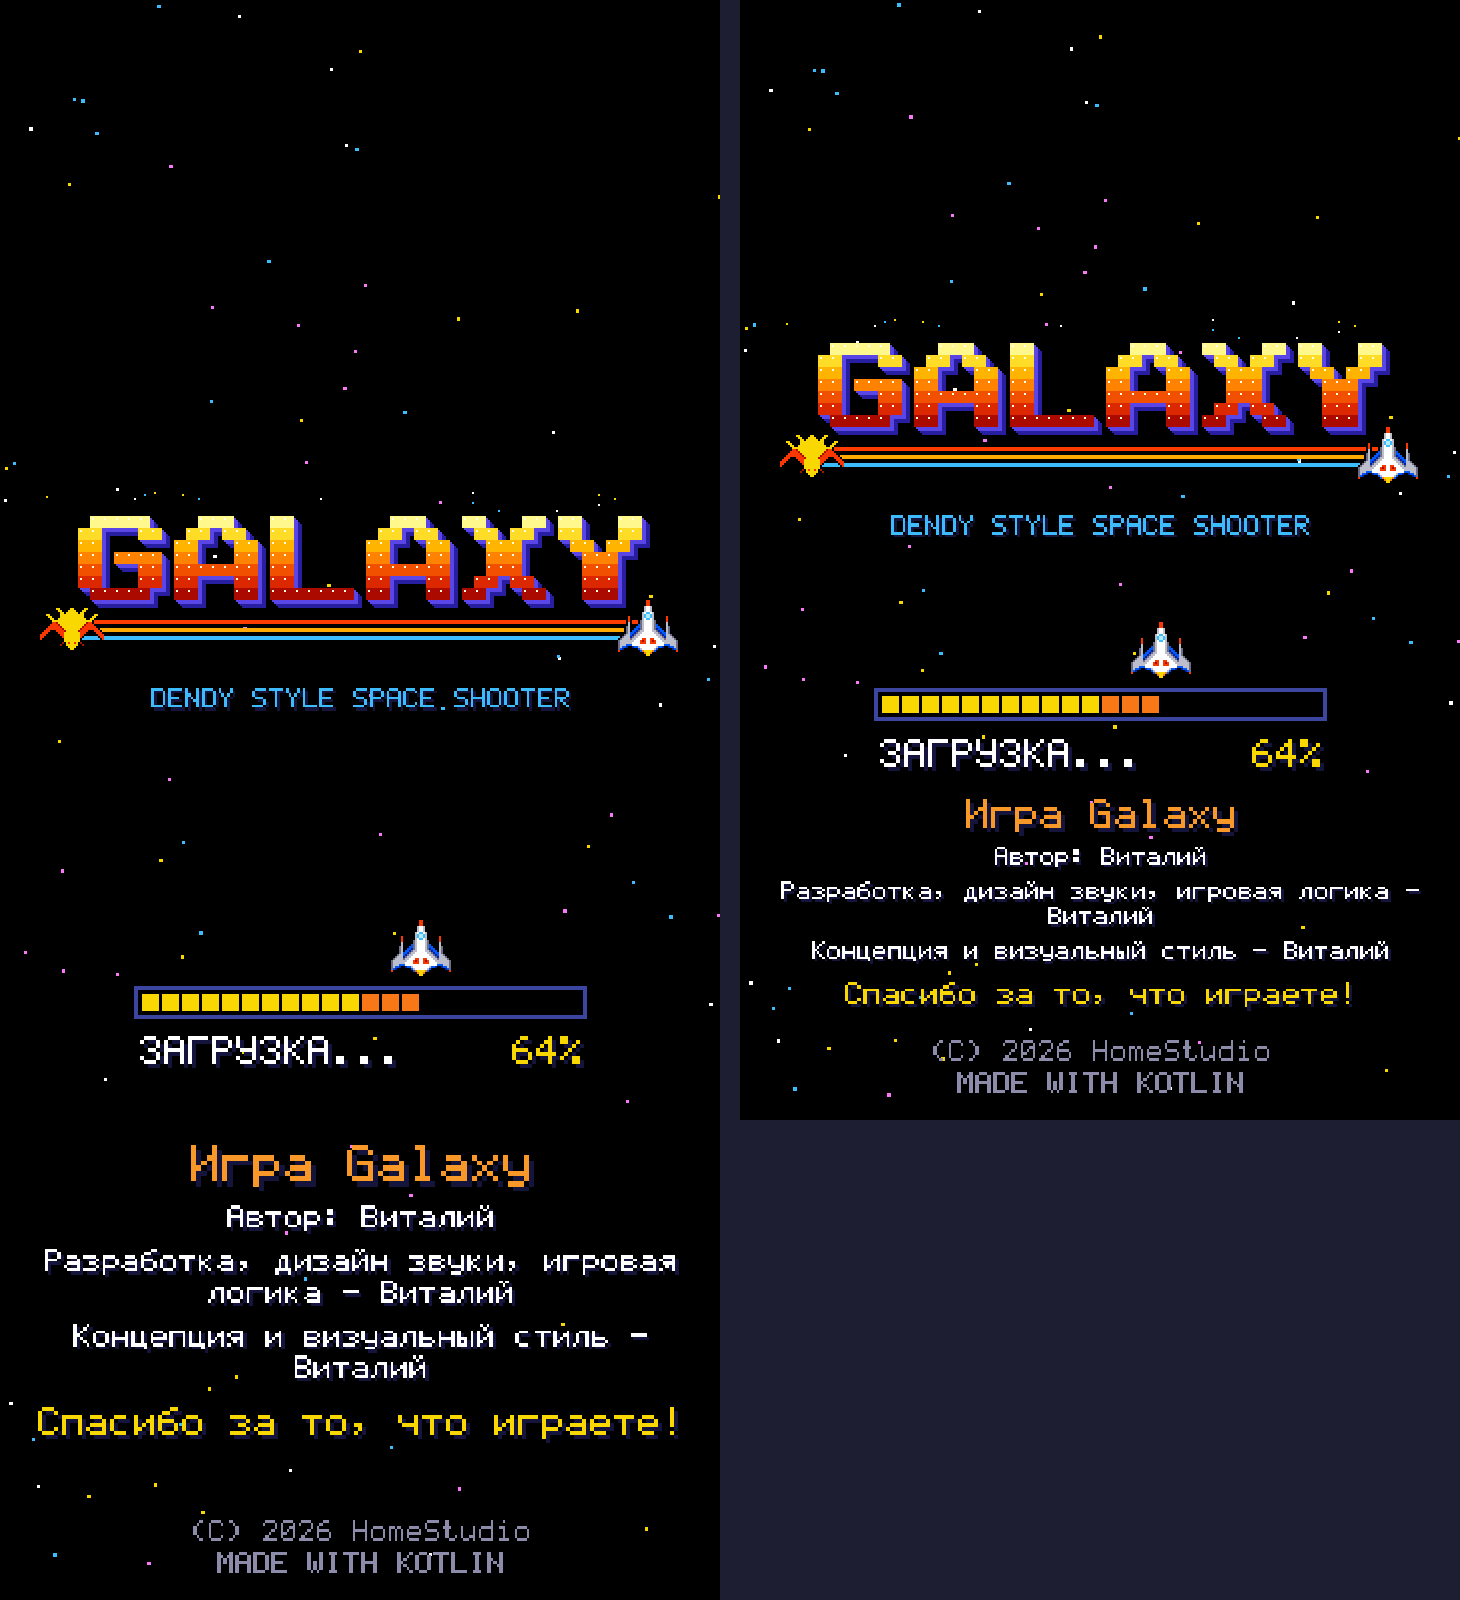
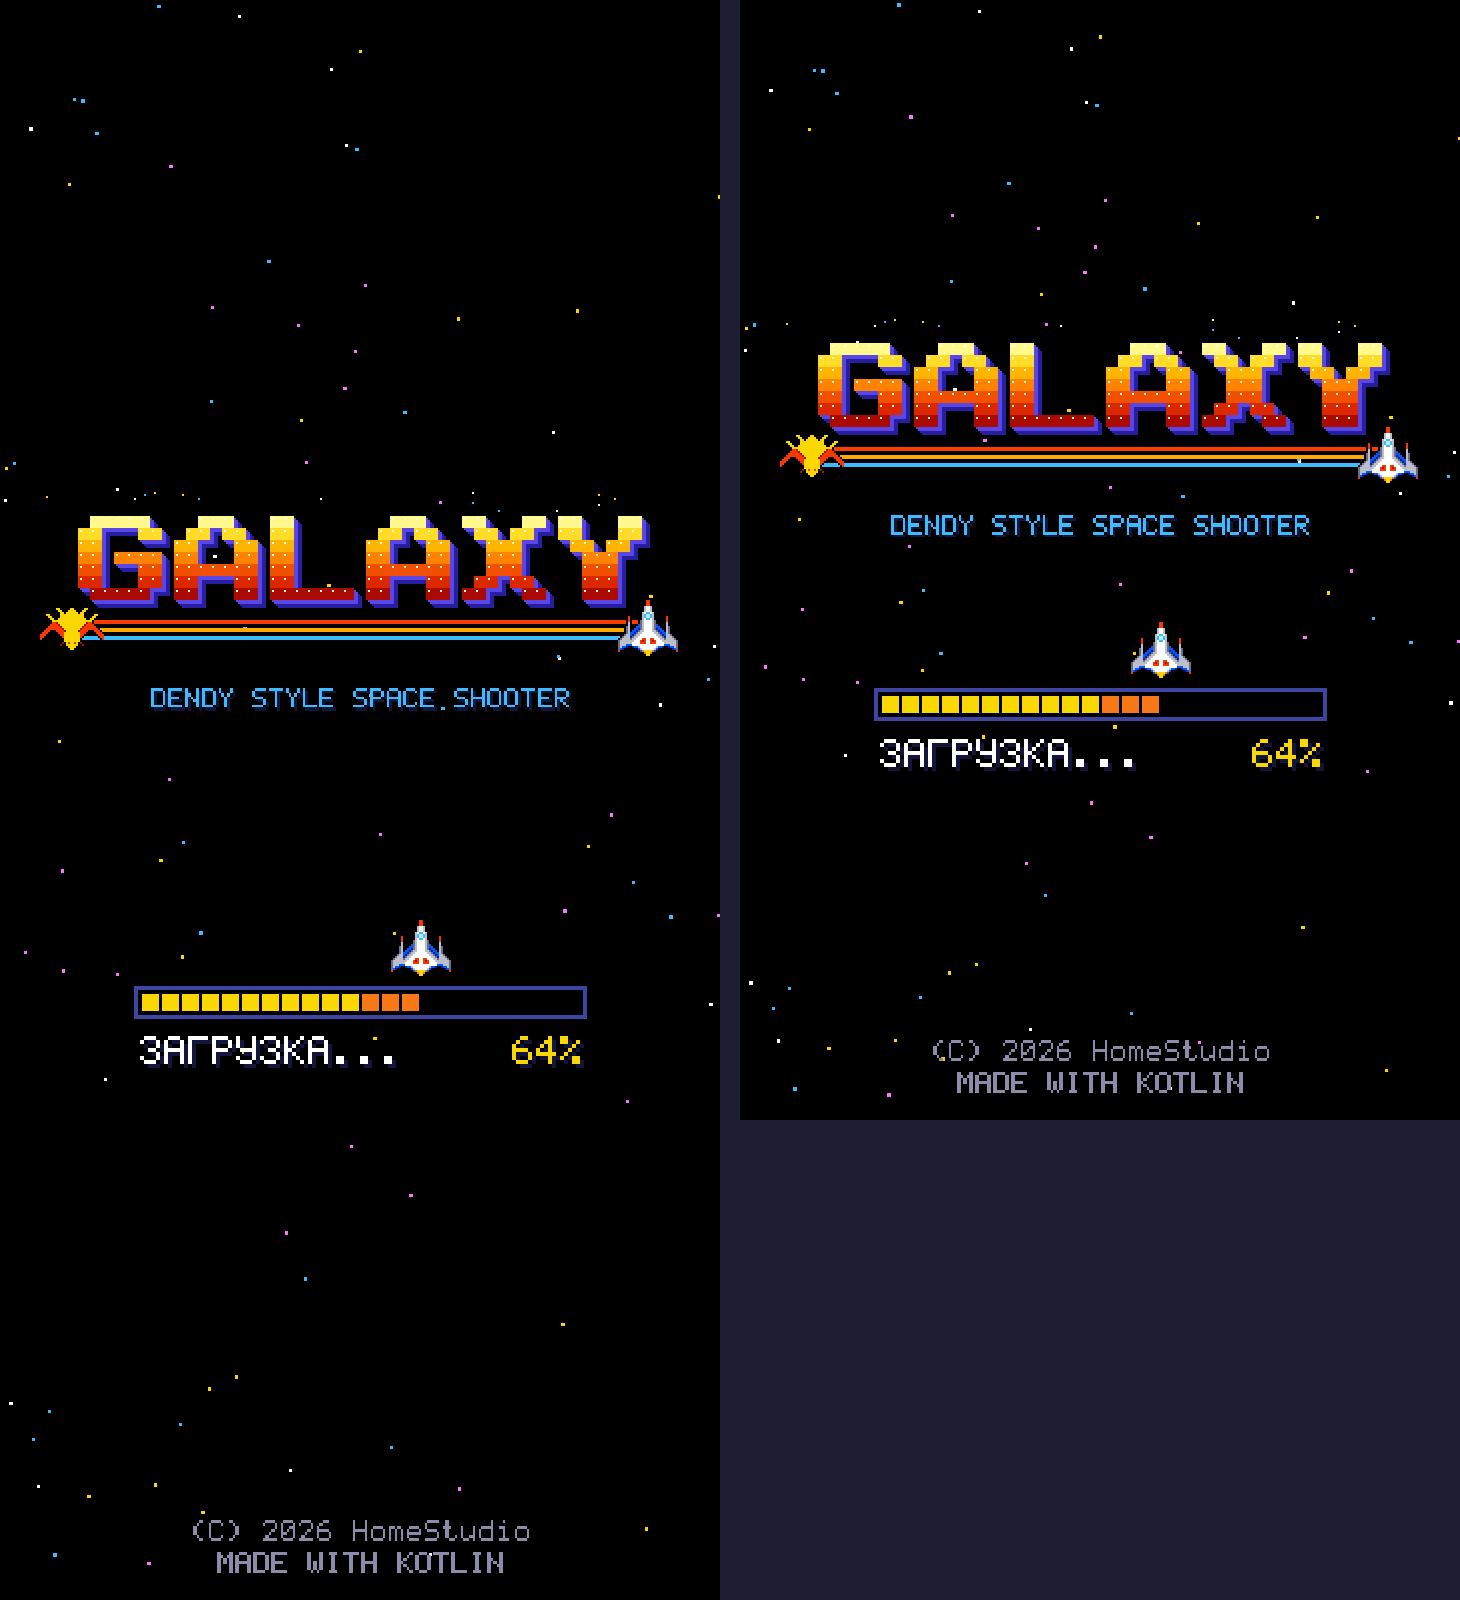
Main menu copyright: Home Studio; loading screen: only the copyright changed (HomeStudio)

Changed region(s): [[0.0308, 0.7188, 0.4623, 0.9062], [0.524, 0.5, 0.9555, 0.625]]

diff --git a/app/src/main/java/com/vetos26/galaxy/Game.kt b/app/src/main/java/com/vetos26/galaxy/Game.kt
@@ -808,22 +808,6 @@ class Game(context: Context) {
         PixelFont.drawShadow(c, "ЗАГРУЗКА$dots", bx, by + 22f, 2f, WHITE)
         PixelFont.drawShadow(c, "${(p * 100).toInt()}%", bx + bw, by + 22f, 2f, YELLOW, Align.RIGHT)
 
-        // credits text (same as in the "Авторы" section) in the free space between
-        // the loading bar and the copyright; fades in, shrinks on short screens
-        val areaTop = by + 46f
-        val areaBottom = vh - 50f
-        val area = areaBottom - areaTop
-        if (area > 60f) {
-            var s = (area / Credits.height(compact = true)).coerceIn(0.55f, 1f)
-            var h = Credits.height(compact = true, scale = s)
-            if (h > area) {
-                s = (s * area / h).coerceAtLeast(0.5f)
-                h = Credits.height(compact = true, scale = s)
-            }
-            val creditsAlpha = (255 * ((stateTime - 0.3f) / 0.6f).coerceIn(0f, 1f)).toInt()
-            Credits.draw(c, areaTop + max(0f, (area - h) / 2f), compact = true, alpha = creditsAlpha, scale = s)
-        }
-
         PixelFont.draw(c, "(C) 2026 HomeStudio", VW / 2f, vh - 40f, 1.5f, GREY, Align.CENTER)
         PixelFont.draw(c, "MADE WITH KOTLIN", VW / 2f, vh - 24f, 1.5f, GREY, Align.CENTER)
     }

diff --git a/app/src/main/java/com/vetos26/galaxy/Menu.kt b/app/src/main/java/com/vetos26/galaxy/Menu.kt
@@ -243,7 +243,7 @@ class Menu(
 
         drawButtons(c, mainItems)
 
-        PixelFont.draw(c, "(C) 2026 HOME STUDIO   V$version", Game.VW / 2f, bottom - 16f, 1.2f, grey, Align.CENTER)
+        PixelFont.draw(c, "(C) 2026 Home Studio   V$version", Game.VW / 2f, bottom - 16f, 1.2f, grey, Align.CENTER)
     }
 
     // ------------------------------------------------------- score table

diff --git a/tools/make_loading_mockup.py b/tools/make_loading_mockup.py
@@ -67,13 +67,6 @@ def render(vh, progress=0.64):
     ship = Image.open(os.path.join(ROOT, 'app/src/main/assets/sprites/player.png')).resize((32*K, 32*K), Image.NEAREST)
     img.alpha_composite(ship, (int((bx+bw*progress-16)*K), int((by-22-16)*K)))
     text('ЗАГРУЗКА...', bx, by+22, 2, WHITE, shadow=True); text('%d%%' % (progress*100), bx+bw, by+22, 2, YEL, 'r', True)
-    area_top, area_bottom = by + 46, vh - 50
-    area = area_bottom - area_top
-    s = max(0.55, min(1, area / credits(0, 1, False)))
-    h = credits(0, s, False)
-    if h > area:
-        s = max(0.5, s*area/h); h = credits(0, s, False)
-    credits(area_top + max(0, (area-h)/2), s)
     text('(C) 2026 HomeStudio', 180, vh-40, 1.5, GREY, 'c'); text('MADE WITH KOTLIN', 180, vh-24, 1.5, GREY, 'c')
     return img.convert('RGB').resize((VW*2, int(vh*2)), Image.NEAREST)
 

diff --git a/tools/make_menu_mockup.py b/tools/make_menu_mockup.py
@@ -55,7 +55,7 @@ for i, t in enumerate(items):
     s.text(t, 180, cy-7, 2.2, YEL if i == 2 else WHITE, 'c')
     if i == 2:
         s.spr('enemy_flagship_1', 180-120-20, cy, 28); s.spr('enemy_flagship_1', 180+120+20, cy, 28)
-s.text('(C) 2026 HOME STUDIO   V1.0.7', 180, bottom-16, 1.2, GREY, 'c')
+s.text('(C) 2026 Home Studio   V1.0.7', 180, bottom-16, 1.2, GREY, 'c')
 s.save('menu_main.png')
 # score table
 s = Screen()
